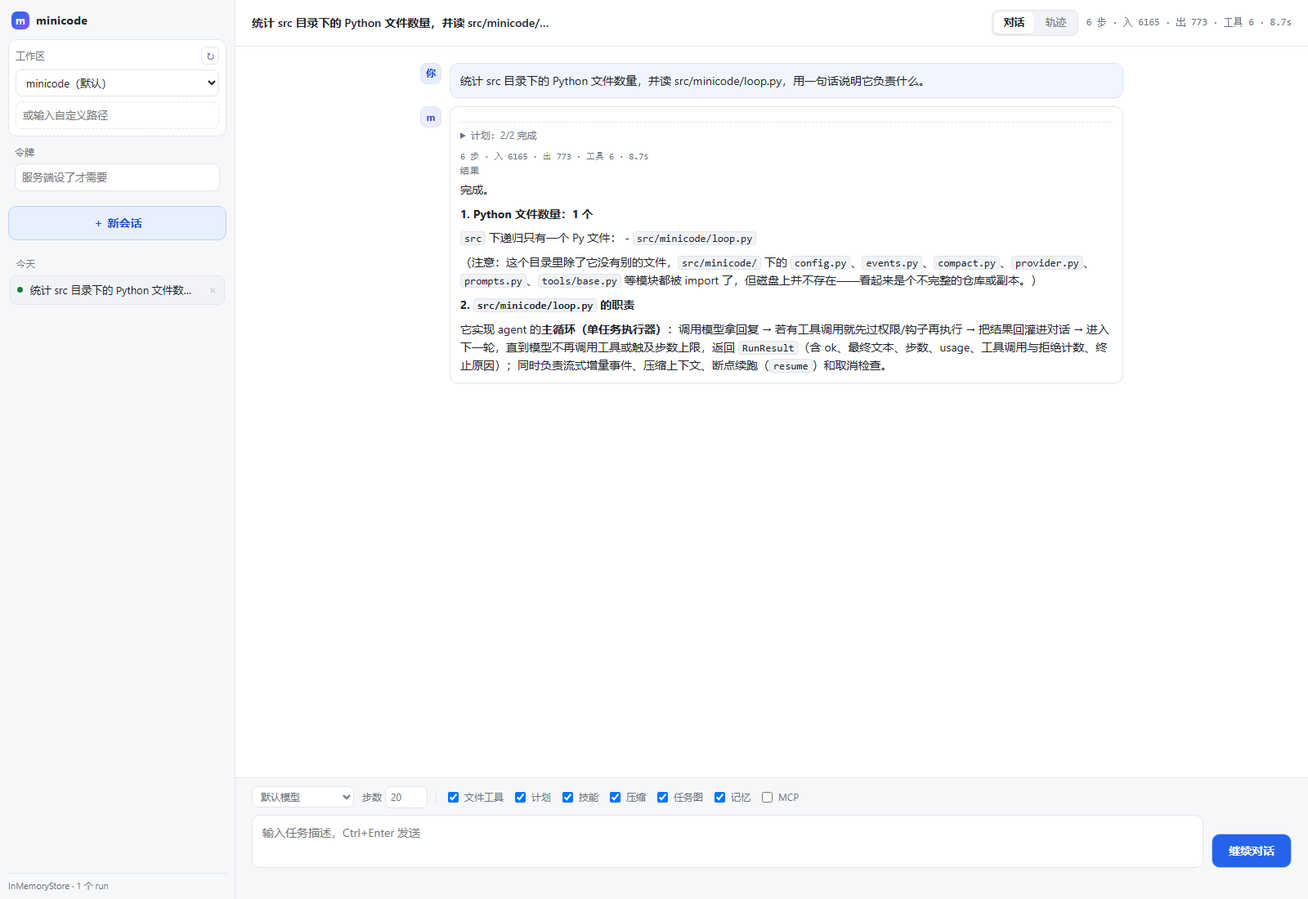
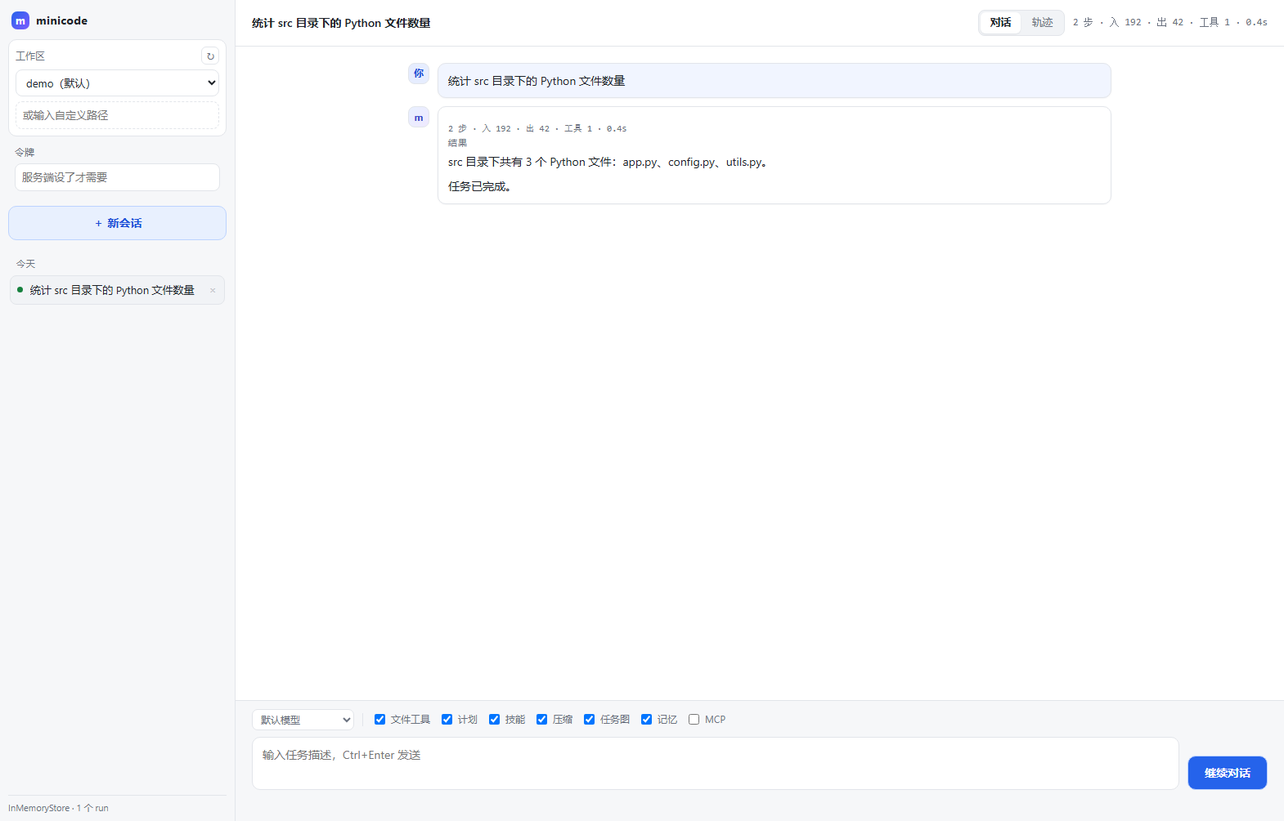
前端固定使用默认 20 步，移除步数输入框

diff --git a/src/minicode/service/web/assets/index-Fbmw1rHl.js b/src/minicode/service/web/assets/index-Fbmw1rHl.js
@@ -1,0 +1,7 @@
+(function(){let e=document.createElement(`link`).relList;if(e&&e.supports&&e.supports(`modulepreload`))return;for(let e of document.querySelectorAll(`link[rel="modulepreload"]`))n(e);new MutationObserver(e=>{for(let t of e)if(t.type===`childList`)for(let e of t.addedNodes)e.tagName===`LINK`&&e.rel===`modulepreload`&&n(e)}).observe(document,{childList:!0,subtree:!0});function t(e){let t={};return e.integrity&&(t.integrity=e.integrity),e.referrerPolicy&&(t.referrerPolicy=e.referrerPolicy),t.credentials=e.crossOrigin===`use-credentials`?`include`:e.crossOrigin===`anonymous`?`omit`:`same-origin`,t}function n(e){if(e.ep)return;e.ep=!0;let n=t(e);fetch(e.href,n)}})();var e=``;function t(t){e=t.trim()}function n(){return e?{Authorization:`Bearer ${e}`}:{}}var r=class extends Error{status;constructor(e,t){super(t),this.status=e}};async function i(e,t){let i={...t?.headers,...n()},a=await fetch(e,{...t,headers:i});if(!a.ok){let e=``;try{let t=await a.json();e=typeof t.detail==`string`?t.detail:JSON.stringify(t.detail)}catch{e=await a.text().catch(()=>``)}throw new r(a.status,e||`HTTP ${a.status}`)}return await a.json()}function a(e){return{method:`POST`,headers:{"Content-Type":`application/json`},body:JSON.stringify(e)}}var o={health(){return i(`/healthz`)},workspaces(){return i(`/workspaces`)},conversations(e=60){return i(`/conversations?limit=${e}`)},deleteConversation(e){return i(`/conversations/${encodeURIComponent(e)}`,{method:`DELETE`})},memory(e){return i(`/memory${e?`?workspace=${encodeURIComponent(e)}`:``}`)},runs(){return i(`/runs`)},run(e){return i(`/runs/${encodeURIComponent(e)}`)},async runWithEvents(e){return await i(`/runs/${encodeURIComponent(e)}?events=true`)},createRun(e){let t={task:e.task,include_files:e.includeFiles??!1,plan:e.plan??!1,skills:e.skills??!1,compact:e.compact??!1,tasks:e.tasks??!1,memory:e.memory??!1,mcp:e.mcp??!1};return e.workspace&&(t.workspace=e.workspace),e.model&&(t.model=e.model),i(`/runs`,a(t))},followup(e,t){return i(`/runs/${encodeURIComponent(e)}/followup`,a({text:t}))},cancel(e){return i(`/runs/${encodeURIComponent(e)}/cancel`,a({}))},resume(e){return i(`/runs/${encodeURIComponent(e)}/resume`,a({}))},runTasks(e){return i(`/runs/${encodeURIComponent(e)}/tasks`)}},s=[`start`,`resume`,`model_call`,`thinking`,`tool_call`,`assistant_delta`,`denied`,`unknown_tool`,`hook_error`,`compact`,`finish`,`end`];function c(t,n,r,i){let a=e?`?token=${encodeURIComponent(e)}`:``,o=new EventSource(`/runs/${encodeURIComponent(t)}/events${a}`);for(let e of s)o.addEventListener(e,t=>{let i=t,a;try{a=JSON.parse(i.data)}catch{return}n(a),e===`end`&&(o.close(),r(e,a))});return o.addEventListener(`error`,()=>{o.readyState===EventSource.CLOSED&&i?.()}),()=>o.close()}function l(e){return typeof e==`object`&&e?e:{}}function u(e){return typeof e==`number`&&Number.isFinite(e)?e:0}function d(e){let t={steps:0,inputTokens:0,outputTokens:0,compactions:0,savedChars:0,elapsedMs:0,toolCalls:0,denied:0,failures:0},n=0,r=0;for(let i of e){let e=l(i.data);if(typeof i.ts==`number`&&(n||=i.ts,r=i.ts),i.kind===`model_call`){t.steps+=1;let n=l(e.usage);t.inputTokens+=u(n.input_tokens),t.outputTokens+=u(n.output_tokens)}else i.kind===`tool_call`?(t.toolCalls+=1,e.failed===!0&&(t.failures+=1)):i.kind===`denied`?t.denied+=1:i.kind===`compact`&&(t.compactions+=1,t.savedChars+=u(e.saved_chars))}return n&&r>=n&&(t.elapsedMs=Math.round((r-n)*1e3)),t}function ee(e){let t=null;for(let n of e){if(n.kind!==`tool_call`)continue;let e=l(n.data);if(e.tool!==`todo_write`)continue;let r=l(e.args).todos;Array.isArray(r)&&(t=r.map(e=>{let t=l(e),n=t.status===`in_progress`||t.status===`completed`?t.status:`pending`,r=Array.isArray(t.blockedBy)?t.blockedBy.map(e=>u(e)).filter(e=>e>0):[];return{content:String(t.content??``),status:n,blockedBy:r}}))}return t}function te(e){if(!e)return`0s`;let t=e/1e3;if(t<60)return`${t<10?t.toFixed(1):Math.round(t)}s`;let n=Math.floor(t/60);return`${n}m${Math.round(t-n*60).toString().padStart(2,`0`)}s`}function f(e){let t=[`${e.steps} 步`,`入 ${e.inputTokens}`,`出 ${e.outputTokens}`,`工具 ${e.toolCalls}`,te(e.elapsedMs)];return e.denied&&t.push(`被拒 ${e.denied}`),e.failures&&t.push(`失败 ${e.failures}`),e.compactions&&t.push(`压缩 ${e.compactions} 次省 ${e.savedChars} 字符`),t.join(` · `)}function p(e){return typeof e==`object`&&e?e:{}}function ne(e){if(!e.startsWith(`mcp__`))return null;let t=e.slice(5),n=t.indexOf(`__`);return n<=0||n+2>=t.length?null:{server:t.slice(0,n),tool:t.slice(n+2)}}function re(e){let t=p(e.data),n=String(t.tool??`?`),r=ne(n),i=r?`${r.server}/${r.tool}`:n,a=p(t.args),o=``;return typeof a.command==`string`?o=a.command:typeof a.path==`string`?o=a.path:typeof a.taskId==`string`?o=a.taskId:typeof a.subject==`string`?o=a.subject:typeof a.prompt==`string`?o=a.prompt:typeof a.text==`string`?o=a.text:Array.isArray(a.todos)&&(o=`${a.todos.length} 条清单`),o=o.replace(/\s+/g,` `).trim(),o.length>80&&(o=o.slice(0,80)+`…`),{tool:i,ok:t.failed!==!0,summary:o,exitCode:typeof t.exit_code==`number`?t.exit_code:void 0,output:typeof t.output==`string`?t.output:void 0,step:typeof t.step==`number`?t.step:0,source:r?`MCP`:void 0,mcpServer:r?.server,mcpTool:r?.tool}}function ie(e){let t=e.events??[],n=d(t),r=p(e.result),i=typeof r.final_text==`string`?r.final_text:``,a=[],o=[],s=0,c=null;for(let e of t)if(e.kind===`start`){let t=p(e.data);typeof t.max_steps==`number`&&(c=t.max_steps)}else if(e.kind===`tool_call`)a.push(re(e));else if(e.kind===`denied`)s+=1;else if(e.kind===`thinking`){let t=p(e.data),n=typeof t.text==`string`?t.text:``;n.trim()&&o.push({step:typeof t.step==`number`?t.step:0,text:n})}return{runId:e.id,stopReason:typeof r.stop_reason==`string`?r.stop_reason:``,task:e.task??``,status:e.status??`queued`,ok:r.ok===!0,answer:i,error:e.error??null,usage:n,plan:ee(t),tools:a,thoughts:o,denied:s,createdAt:typeof e.created_at==`number`?e.created_at:0,maxSteps:c}}function ae(e){if(!e.ok&&e.status===`done`)return`interrupted`;let t=e.maxSteps??0;return e.ok&&e.stopReason===`end_turn`&&t>0&&e.usage.steps>=t?`budget_boundary`:`ok`}function oe(e){return[...e].sort((e,t)=>(e.created_at??0)-(t.created_at??0)).map(ie)}function se(e){let t=new Date(e*1e3);return t.setHours(0,0,0,0),t.getTime()}function ce(e,t=Date.now()){let n=se(t/1e3),r=n-864e5,i=[{label:`今天`,items:[]},{label:`昨天`,items:[]},{label:`更早`,items:[]}];for(let t of e){let e=se(t.updated_at);e>=n?i[0].items.push(t):e>=r?i[1].items.push(t):i[2].items.push(t)}return i.filter(e=>e.items.length>0)}function le(e){return e===`running`||e===`queued`?`warn`:e===`error`?`error`:e===`done`?`ok`:`muted`}function ue(e,t=28){let n=(e||``).replace(/\s+/g,` `).trim();return n?n.length>t?n.slice(0,t)+`…`:n:`(空任务)`}function m(e){let t=Math.max(0,Math.floor(e/1e3)),n=Math.floor(t/3600),r=Math.floor(t%3600/60),i=t%60,a=String(r).padStart(2,`0`),o=String(i).padStart(2,`0`);return n>0?`${n}:${a}:${o}`:`${a}:${o}`}function de(e){return typeof e==`object`&&e?e:{}}function h(e,t=``){return typeof e==`string`?e:e==null?t:String(e)}function g(e){return typeof e==`number`?e:void 0}function _(e,t){let n=e.replace(/\s+/g,` `).trim();return n.length>t?n.slice(0,t)+`…`:n}function fe(e){let t=de(e.data);switch(e.kind){case`start`:{let e=Array.isArray(t.tools)?t.tools.map(e=>h(e)).join(`/`):``;return{label:`开始`,detail:`${h(t.model,`?`)} · 工具 ${e||`?`} · ${_(h(t.task),60)}`,tone:`info`}}case`resume`:return{label:`恢复`,detail:`从第 ${g(t.from_step)??`?`} 步恢复（上限 ${g(t.max_steps)??`?`}）`,tone:`info`};case`model_call`:{let e=de(t.usage),n=g(e.input_tokens)??0,r=g(e.output_tokens)??0,i=g(t.tool_calls)??0;return{label:`模型调用 #${g(t.step)??`?`}`,detail:`${h(t.stop_reason,`?`)} · 入 ${n} 出 ${r} · 工具调用 ${i} 个`,tone:`info`}}case`assistant_delta`:return{label:`模型输出`,detail:_(h(t.text),60),tone:`info`};case`thinking`:{let e=g(t.step)??0;return{label:e?`思考 #${e}`:`思考`,detail:_(h(t.text).replace(/\s+/g,` `),60),tone:`info`}}case`mcp_ready`:{let e=g(t.server_count)??0,n=g(t.tool_count)??0,r=Array.isArray(t.warnings)?t.warnings.length:0;return{label:`MCP`,detail:`${e} 个 server · ${n} 个工具`+(r?` · ${r} 条警告`:``),tone:r?`warn`:`info`}}case`tool_call`:{let e=de(t.args),n=h(e.command)||h(e.path)||``,r=g(t.exit_code),i=t.failed===!0;return{label:`工具 ${h(t.tool,`?`)}`,detail:`${_(n,80)}${r===void 0?``:` [exit=${r}]`}`,tone:i?`warn`:`ok`}}case`denied`:return{label:`已拒绝`,detail:`${h(t.reason,`?`)}：${_(h(t.detail),70)}`,tone:`warn`};case`unknown_tool`:return{label:`未知工具`,detail:h(t.tool,`?`),tone:`warn`};case`finish`:{let e=t.ok===!0;return{label:`完成`,detail:e?`完成（${h(t.reason,`?`)}）`:`未完成（${h(t.reason,`?`)}）`,tone:e?`ok`:`error`}}case`end`:{let e=h(t.status,`?`);return{label:`结束`,detail:e===`error`?`失败：${_(h(t.error),80)}`:e,tone:e===`error`?`error`:`ok`}}default:return{label:e.kind,detail:_(JSON.stringify(t),80),tone:`info`}}}function pe(e){let t=e.trim();return t&&(/^(https?:|mailto:)/i.test(t)||t.startsWith(`/`)||t.startsWith(`#`)||t.startsWith(`./`)||t.startsWith(`../`))?t:null}var me=/`([^`]+)`/,he=/\[([^\]]*)\]\(([^)\s]+)\)/,ge=/\*\*(.+?)\*\*/,_e=/(^|[^*_])(\*([^*]+)\*|_([^_]+)_)/;function v(e){let t=[],n=e;for(;n;){let e=[];for(let[t,r]of[[`code`,me],[`link`,he],[`strong`,ge],[`em`,_e]]){let i=r.exec(n);i&&e.push({index:i.index,kind:t,match:i})}if(e.length===0){t.push({type:`text`,text:n});break}e.sort((e,t)=>e.index-t.index);let{index:r,kind:i,match:a}=e[0];if(r>0&&t.push({type:`text`,text:n.slice(0,r)}),i===`code`)t.push({type:`code`,text:a[1]}),n=n.slice(r+a[0].length);else if(i===`link`){let e=pe(a[2]);e?t.push({type:`link`,href:e,children:v(a[1])}):t.push({type:`text`,text:a[0]}),n=n.slice(r+a[0].length)}else if(i===`strong`)t.push({type:`strong`,children:v(a[1])}),n=n.slice(r+a[0].length);else{let e=a[1]??``,i=a[3]??a[4]??``;e&&t.push({type:`text`,text:e}),t.push({type:`em`,children:v(i)}),n=n.slice(r+a[0].length)}}return ve(t)}function ve(e){let t=[];for(let n of e){let e=t[t.length-1];n.type===`text`&&e&&e.type===`text`?t[t.length-1]={type:`text`,text:e.text+n.text}:t.push(n)}return t}var ye=/^(#{1,6})\s+(.*)$/,be=/^\s*([-*_])(?:\s*\1){2,}\s*$/,xe=/^\s*[-*+]\s+(.*)$/,y=/^\s*\d+[.)]\s+(.*)$/,b=/^>\s?(.*)$/,Se=/^\s*\|?\s*:?-{2,}:?\s*(\|\s*:?-{2,}:?\s*)+\|?\s*$/;function Ce(e){let t=e.trim();return t.startsWith(`|`)&&(t=t.slice(1)),t.endsWith(`|`)&&(t=t.slice(0,-1)),t.split(`|`).map(e=>e.trim())}function we(e){let t=(e??``).replace(/\r\n?/g,`
+`).split(`
+`),n=[],r=0;for(;r<t.length;){let e=t[r];if(!e.trim()){r+=1;continue}let i=/^\s*```(\w*)\s*$/.exec(e);if(i){let e=i[1]??``,a=[];for(r+=1;r<t.length&&!/^\s*```\s*$/.test(t[r]);)a.push(t[r]),r+=1;r+=1,n.push({type:`code`,lang:e,text:a.join(`
+`)});continue}let a=ye.exec(e);if(a){n.push({type:`heading`,level:a[1].length,children:v(a[2])}),r+=1;continue}if(be.test(e)){n.push({type:`hr`}),r+=1;continue}if(b.test(e)){let e=[];for(;r<t.length&&b.test(t[r]);)e.push(b.exec(t[r])[1]),r+=1;n.push({type:`blockquote`,blocks:we(e.join(`
+`))});continue}if(e.includes(`|`)&&r+1<t.length&&Se.test(t[r+1])){let i=Ce(e).map(v);r+=2;let a=[];for(;r<t.length&&t[r].includes(`|`)&&t[r].trim();)a.push(Ce(t[r]).map(v)),r+=1;n.push({type:`table`,header:i,rows:a});continue}if(xe.test(e)||y.test(e)){let i=y.test(e),a=i?y:xe,o=[];for(;r<t.length&&a.test(t[r]);){o.push(v(a.exec(t[r])[1])),r+=1;let e=[];for(;r<t.length&&/^\s+\S/.test(t[r])&&!xe.test(t[r])&&!y.test(t[r]);)e.push(t[r].trim()),r+=1;e.length&&o[o.length-1].push({type:`text`,text:` `+e.join(` `)})}n.push({type:`list`,ordered:i,items:o});continue}let o=[];for(;r<t.length&&t[r].trim();){let e=t[r];if(o.length>0&&(ye.test(e)||be.test(e)||/^\s*```/.test(e)||b.test(e)))break;o.push(e),r+=1}n.push({type:`paragraph`,children:v(o.join(` `).trim())})}return n}function x(e,t){let n=t.createDocumentFragment();for(let r of e)if(r.type===`text`)n.append(t.createTextNode(r.text));else if(r.type===`code`)n.append(t.createElement(`code`)),n.lastChild.textContent=r.text,n.lastChild.className=`md-code`;else if(r.type===`strong`){let e=t.createElement(`strong`);e.append(x(r.children,t)),n.append(e)}else if(r.type===`em`){let e=t.createElement(`em`);e.append(x(r.children,t)),n.append(e)}else{let e=t.createElement(`a`);e.setAttribute(`href`,r.href),e.setAttribute(`rel`,`noreferrer noopener`),e.setAttribute(`target`,`_blank`),e.append(x(r.children,t)),n.append(e)}return n}function Te(e,t=document){return Ee(we(e),t)}function Ee(e,t=document){let n=t.createDocumentFragment();for(let r of e)if(r.type===`heading`){let e=t.createElement(`h${Math.min(6,Math.max(1,r.level))}`);e.append(x(r.children,t)),n.append(e)}else if(r.type===`paragraph`){let e=t.createElement(`p`);e.append(x(r.children,t)),n.append(e)}else if(r.type===`code`){let e=t.createElement(`pre`),i=t.createElement(`code`);r.lang&&(i.className=`lang-${r.lang}`),i.textContent=r.text,e.append(i),n.append(e)}else if(r.type===`list`){let e=t.createElement(r.ordered?`ol`:`ul`);for(let n of r.items){let r=t.createElement(`li`);r.append(x(n,t)),e.append(r)}n.append(e)}else if(r.type===`blockquote`){let e=t.createElement(`blockquote`);e.append(Ee(r.blocks,t)),n.append(e)}else if(r.type===`hr`)n.append(t.createElement(`hr`));else{let e=t.createElement(`table`),i=t.createElement(`thead`),a=t.createElement(`tr`);for(let e of r.header){let n=t.createElement(`th`);n.append(x(e,t)),a.append(n)}i.append(a),e.append(i);let o=t.createElement(`tbody`);for(let e of r.rows){let n=t.createElement(`tr`);for(let r of e){let e=t.createElement(`td`);e.append(x(r,t)),n.append(e)}o.append(n)}e.append(o),n.append(e)}return n}function S(e,t={},...n){let r=document.createElement(e);for(let[e,n]of Object.entries(t))n!=null&&(e===`class`?r.className=String(n):e===`dataset`?Object.assign(r.dataset,n):e===`hidden`?r.hidden=!!n:r[e]=n);for(let e of n)e!=null&&e!==!1&&r.append(typeof e==`string`?document.createTextNode(e):e);return r}function C(e){let t=document.getElementById(e);if(!t)throw Error(`找不到元素 #${e}`);return t}var w=`minicode:conversation`,T=`minicode:workspace`,De=`minicode:view`;function E(e,t){try{window.localStorage.setItem(e,t)}catch{}}function D(e){try{return window.localStorage.getItem(e)??``}catch{return``}}function Oe(e){try{window.localStorage.removeItem(e)}catch{}}var O={workspace:C(`workspace`),custom:C(`workspaceCustom`),refresh:C(`refreshWs`),newChat:C(`newChat`),conversations:C(`conversations`),token:C(`token`),store:C(`storeInfo`)},k={title:C(`title`),status:C(`runStatus`),usage:C(`usage`),chat:C(`chat`),empty:C(`empty`),task:C(`task`),submit:C(`submit`),resume:C(`resume`),cancel:C(`cancel`),statusLine:C(`status`),model:C(`model`),optFiles:C(`optFiles`),optPlan:C(`optPlan`),optSkills:C(`optSkills`),optCompact:C(`optCompact`),optTasks:C(`optTasks`),optMemory:C(`optMemory`),optMcp:C(`optMcp`),viewChat:C(`viewChat`),viewTrajectory:C(`viewTrajectory`)},ke=new Map;function A(e,t,n,r=!1){let i=S(`details`,{class:e}),a=!1,o=()=>{if(a||!i.open)return;a=!0;let e=n();e&&i.append(e)};return i.append(S(`summary`,{},t)),i.addEventListener(`toggle`,o),i.open=r,r&&o(),i}function Ae(e,t,n,r,i=!1){let a=S(`details`,{class:t}),o=ke.has(e)?ke.get(e):i;a.open=o,a.addEventListener(`toggle`,()=>{a.open!==o&&ke.set(e,a.open)}),a.append(S(`summary`,{},n));let s=r();return s&&a.append(s),a}var j=[],M=[],N=[],P=``,F=null,I=[],L=null,je=!1,R=`chat`,z=``;function Me(){return M.find(e=>e.root_id===P)??null}function Ne(){return O.custom.value.trim()||O.workspace.value}function B(e,t=`muted`){k.statusLine.textContent=e,k.statusLine.className=t===`muted`?`muted`:t}function Pe(){return N.some(e=>e.status===`running`||e.status===`queued`)}function Fe(){O.workspace.replaceChildren();for(let e of j){let t=S(`option`,{value:e.path});t.textContent=`${e.name}${e.is_default?`（默认）`:``}${e.exists?``:`（不存在）`}`,t.title=e.path,O.workspace.append(t)}let e=D(T),t=j.find(t=>t.path===e)??j.find(e=>e.is_default)??j[0];t&&(O.workspace.value=t.path)}function Ie(){if(O.conversations.replaceChildren(),M.length===0)O.conversations.append(S(`p`,{class:`muted hint`},`暂无会话`));else for(let e of ce(M)){O.conversations.append(S(`div`,{class:`group-label`},e.label));for(let t of e.items){let e=S(`div`,{class:`conv-row`}),n=S(`button`,{class:`conv`,dataset:{root:t.root_id}});t.root_id===P&&(n.classList.add(`active`),n.setAttribute(`aria-current`,`true`));let r=le(t.status);n.append(S(`span`,{class:`dot tone-${r}`})),n.append(S(`span`,{class:`conv-title`},ue(t.title,30))),t.turns&&t.turns>1&&n.append(S(`span`,{class:`conv-turns`},`${t.turns} 轮`)),n.addEventListener(`click`,()=>void yt(t.root_id)),e.append(n);let i=S(`button`,{class:`conv-del`,title:`删除会话`},`×`);i.setAttribute(`aria-label`,`删除会话`),i.addEventListener(`click`,e=>{e.stopPropagation(),Tt(t)}),e.append(i),O.conversations.append(e)}}}function Le(e,t){if(!e.plan||e.plan.length===0)return null;let n=e.plan.filter(e=>e.status===`completed`).length;return Ae(`${e.runId}:plan`,`plan`,`计划：${n}/${e.plan.length} 完成`,()=>{let t=S(`ol`,{class:`plan-list`});for(let n of e.plan??[]){let e=S(`li`,{class:`plan-item status-${n.status}`});e.textContent=n.content,n.blockedBy?.length&&e.append(S(`span`,{class:`blocked-by`},`等待 ${n.blockedBy.join(`,`)}`)),t.append(e)}return t},t)}function Re(e,t=!1){let n=S(`div`,{class:`turn${t?` live`:``}`}),r=S(`div`,{class:`msg user`});r.append(S(`div`,{class:`avatar`},`你`)),r.append(S(`div`,{class:`bubble`},e.task)),n.append(r);let i=S(`div`,{class:`msg assistant`});i.append(S(`div`,{class:`avatar`},`m`));let a=S(`div`,{class:`bubble`}),o=Le(e,!1);o&&a.append(o),e.usage.steps>0&&a.append(S(`div`,{class:`turn-usage muted`},f(e.usage)));let s=ae(e);if(e.error)a.append(S(`div`,{class:`answer error`},`出错：${e.error}`));else if(e.status===`error`)a.append(S(`div`,{class:`answer error`},`执行失败（切换到「轨迹」查看原始信息）`));else{if(s===`interrupted`){let t=e.stopReason===`max_steps`?`步数用尽，任务中断`:e.stopReason===`cancelled`?`已取消`:`任务未完成`;a.append(S(`div`,{class:`answer-warning`},`${t}（这不是最终结果）`))}else s===`budget_boundary`&&a.append(S(`div`,{class:`answer-hint`},`本轮到第 ${e.usage.steps} 步结束（等于步数上限 ${e.maxSteps}）。如果任务没做完，点「继续执行」。`));if(e.answer){a.append(S(`div`,{class:`answer-label`},s===`interrupted`?`中断前模型的最后输出`:`结果`));let t=S(`div`,{class:`answer markdown`});t.append(Te(e.answer)),a.append(t)}else s===`interrupted`&&a.append(S(`div`,{class:`answer muted`},`没有产出最终结果`))}return i.append(a),n.append(i),n}function V(e){try{return JSON.stringify(e,null,2)??String(e)}catch{return String(e)}}function ze(e,t){let n=e.data??{};return typeof n[t]==`string`?n[t]:``}function Be(e,t){let n=e.data??{};return typeof n[t]==`number`?n[t]:void 0}function Ve(e){let t=Be(e,`step`);return t===void 0?null:t}function H(e,t=``){return S(`pre`,{class:`traj-pre ${t}`.trim()},e)}function He(e){return A(`traj-event-json`,`原始事件 JSON`,()=>H(V(e),`json`),!1)}function Ue(e){switch(e.kind){case`start`:return`开始`;case`resume`:return`从检查点恢复`;case`mcp_ready`:return`MCP 连接`;case`thinking`:return`thinking（模型推理原文）`;case`model_call`:return`模型调用`;case`tool_call`:return`工具调用`;case`denied`:return`权限拒绝`;case`hook_error`:return`钩子异常`;case`compact`:return`上下文压缩`;case`finish`:return`结束`;case`unknown_tool`:return`未知工具`;default:return fe(e).label}}function We(e){let t=e.data??{},n=Ve(e),r=S(`div`,{class:`traj-entry kind-${e.kind}`}),i=S(`div`,{class:`traj-entry-head`});switch(i.append(S(`span`,{class:`traj-kind`},Ue(e))),n!==null&&i.append(S(`span`,{class:`traj-step-tag`},`第 ${n} 步`)),r.append(i),e.kind){case`start`:r.append(S(`div`,{class:`traj-label`},`用户任务`)),r.append(H(String(t.task??``),`text`)),r.append(S(`div`,{class:`traj-line`},`model=${String(t.model??`?`)} · tools=${Array.isArray(t.tools)?t.tools.join(`, `):``} · hooks=${Array.isArray(t.hooks)?t.hooks.join(`, `):``}`)),typeof t.system==`string`&&t.system&&r.append(A(`traj-system`,`系统提示（完整，点击展开）`,()=>H(t.system,`text`),!1));break;case`resume`:r.append(S(`div`,{class:`traj-line`},`从第 ${t.from_step??`?`} 步恢复 · 再给 ${t.max_steps??`?`} 步 · 目标到第 ${t.until_step??`?`} 步`));break;case`mcp_ready`:{let e=Array.isArray(t.servers)?t.servers.join(`, `):``,n=Array.isArray(t.warnings)?t.warnings.length:0;r.append(S(`div`,{class:`traj-line`},`${t.server_count??0} 个 server · ${t.tool_count??0} 个工具${e?` · ${e}`:``}${n?` · ${n} 条警告`:``}`));break}case`thinking`:r.append(H(`${ze(e,`text`)}\n`,`thinking-text`));break;case`model_call`:{let e=t.usage??{};r.append(S(`div`,{class:`traj-line`},`stop_reason=${String(t.stop_reason??`?`)} · 入 ${e.input_tokens??0} / 出 ${e.output_tokens??0} · 工具调用 ${t.tool_calls??0} 个 · 文本 ${t.text_len??0} 字`));break}case`tool_call`:{let e=S(`div`,{class:`traj-tool-head`});e.append(S(`span`,{class:`traj-tool-name`},String(t.tool??`?`))),typeof t.exit_code==`number`&&e.append(S(`span`,{class:`traj-exit ${t.failed===!0?`bad`:`ok`}`},t.failed===!0?`exit ${t.exit_code}`:`exit 0`)),r.append(e),r.append(A(`traj-tool-section`,`参数（完整）`,()=>H(V(t.args??{}),`json`),!1)),r.append(A(`traj-tool-section`,`输出（完整，不截断）`,()=>H(typeof t.output==`string`?t.output:`(无输出)`,`output`),!1)),t.meta&&Object.keys(t.meta).length>0&&r.append(A(`traj-tool-section`,`meta`,()=>H(V(t.meta),`json`),!1));break}case`denied`:r.append(S(`div`,{class:`traj-line`},`${String(t.reason??`?`)}${t.detail?` · ${String(t.detail)}`:``} · by ${String(t.by??``)}`)),t.args!==void 0&&r.append(H(V(t.args),`json`));break;case`hook_error`:r.append(H(V(t),`json`));break;case`compact`:r.append(S(`div`,{class:`traj-line`},`${t.chars_before??`?`} → ${t.chars_after??`?`} 字符（省 ${Math.round(Number(t.saved_ratio??0)*100)}%）；落盘 ${t.persisted??0}、截断 ${t.trimmed??0}、删整对 ${t.snipped_messages??0}`));break;case`finish`:r.append(S(`div`,{class:`traj-line`},`ok=${String(t.ok??`?`)} · reason=${String(t.reason??`?`)}`));break;case`unknown_tool`:r.append(S(`div`,{class:`traj-line`},String(t.tool??`?`)));break;default:{let n=fe(e);r.append(S(`div`,{class:`traj-line`},n.detail)),r.append(H(V(t),`json`));break}}return r.append(He(e)),r}var U=null,W=!0,G=[],K=!1;function Ge(e){if(!e.pendingDelta)return;let t=e.pendingDelta;e.pendingDelta=``;let n=S(`div`,{class:`traj-entry kind-assistant`}),r=S(`div`,{class:`traj-entry-head`});r.append(S(`span`,{class:`traj-kind`},`助手输出`)),e.pendingStep!==null&&r.append(S(`span`,{class:`traj-step-tag`},`第 ${e.pendingStep} 步`)),n.append(r),n.append(H(`${t}\n`,`answer-text`)),e.log.append(n)}function Ke(e,t){let n=Ve(t);n!==e.lastStep&&(Ge(e),e.lastStep=n,n!==null&&e.log.append(S(`div`,{class:`traj-step-divider`},`第 ${n} 步`))),t.kind===`assistant_delta`?(e.pendingDelta+=ze(t,`text`),e.pendingStep=n):(Ge(e),e.log.append(We(t)))}function qe(e,t){let n=e.events??[],r=d(n),i=e.result??{},a=e.status??`queued`,o=a===`done`&&i.ok===!1?`未完成`:a,s=S(`section`,{class:`traj-run`}),c=S(`div`,{class:`traj-run-head`});c.append(S(`span`,{class:`traj-run-index`},`第 ${t+1} 轮`)),c.append(S(`span`,{class:`traj-run-task`},e.task)),c.append(S(`span`,{class:`traj-run-status tone-${le(a)}`},o)),c.append(S(`span`,{class:`traj-run-meta muted`},f(r))),s.append(c);let l=S(`div`,{class:`traj-log`});s.append(l);let u={runId:e.id,log:l,lastStep:void 0,pendingDelta:``,pendingStep:null};for(let e of n)Ke(u,e);if(Ge(u),e.error)s.append(S(`div`,{class:`traj-result error`},`错误：${e.error}`));else if(typeof i.final_text==`string`&&i.final_text){let e=S(`div`,{class:`traj-result`});e.append(S(`div`,{class:`traj-label`},`最终结果`));let t=S(`div`,{class:`answer markdown`});t.append(Te(i.final_text)),e.append(t),s.append(e)}return{section:s,state:u}}function Je(){k.chat.className=`chat trajectory`,G=[],K=!1;let e=k.chat.scrollTop;k.chat.replaceChildren(),U=null,N.length===0?k.chat.append(S(`div`,{class:`empty`},S(`p`,{class:`empty-title`},`还没有运行记录`),S(`p`,{class:`muted`},`在下方输入任务，或从左侧选择历史会话。`))):(N.forEach((e,t)=>{let{section:n,state:r}=qe(e,t);k.chat.append(n),F?.id===e.id&&(U=r)}),k.chat.scrollTop=W?k.chat.scrollHeight:e)}var Ye=null;function Xe(e){let t=Re(e,!0),n=t.querySelector(`.msg.assistant .bubble`),r=S(`div`,{class:`plan-host`}),i=S(`div`,{class:`turn-usage muted`}),a=S(`div`,{class:`answer streaming markdown`});return n.replaceChildren(r,i,a),{el:t,view:{runId:e.runId,planHost:r,usageEl:i,answerEl:a,deltaText:``,answerStep:null}}}function Ze(e){let t=Be(e,`step`),n=t===void 0?``:`第 ${t} 步 · `;switch(e.kind){case`assistant_delta`:return`${n}模型输出中…`;case`thinking`:return`${n}模型在思考…`;case`tool_call`:{let t=re(e);return`${n}正在执行 ${t.tool}${t.summary?`：${t.summary}`:``}`}case`denied`:return`${n}工具调用被权限拒绝`;case`compact`:return`${n}正在压缩上下文…`;case`model_call`:return`${n}模型已返回，继续下一步…`;default:return``}}var q=null,J=null,Y=null,X=0,Z=null;function Qe(e){e&&(z=e,k.status.hidden=!1,k.status.textContent=Y?`${e} · ${m(Date.now()-X)}`:e)}function $e(e){e&&(z=e,J&&(J.textContent=`运行中 · ${e}`),k.status.hidden=!1,k.status.textContent=`${e} · ${m(Date.now()-X)}`)}function et(){if(!F)return;let e=m(Date.now()-X);Y&&(Y.textContent=e),z&&(k.status.textContent=`${z} · ${e}`)}function tt(){q||(q=S(`div`,{class:`live-footer`}),J=S(`span`,{class:`live-footer-text`},z?`运行中 · ${z}`:`运行中 · 等待模型回复…`),Y=S(`span`,{class:`live-timer`},`00:00`),q.append(J,Y))}function nt(){Z===null&&(et(),Z=window.setInterval(et,1e3))}function rt(){Z!==null&&(window.clearInterval(Z),Z=null),X=0,q=null,J=null,Y=null}function it(e){let t=Te(e.deltaText);t.append(S(`span`,{class:`cursor`})),e.answerEl.replaceChildren(t)}function at(e,t){if(!t||t.length===0)return;let n=t.filter(e=>e.status===`completed`).length,r=e.planHost.querySelector(`details.plan`),i;r?i=r.querySelector(`ol.plan-list`):(r=S(`details`,{class:`plan`}),r.open=!0,i=S(`ol`,{class:`plan-list`}),r.append(S(`summary`),i),e.planHost.append(r)),r.querySelector(`summary`).textContent=`计划：${n}/${t.length} 完成`,i.replaceChildren();for(let e of t){let t=S(`li`,{class:`plan-item status-${e.status}`});t.textContent=e.content,i.append(t)}}function ot(e){let t=Ye;if(!t)return;if(e.kind===`assistant_delta`){let n=Be(e,`step`)??null;t.deltaText&&n!==t.answerStep&&(t.deltaText+=`
+
+`),t.answerStep=n,t.deltaText+=ze(e,`text`),it(t)}else e.kind===`tool_call`&&at(t,ee(I));let n=Ze(e);n&&$e(n),t.usageEl.textContent=f(d(I)),ct(),ht()}function st(e,t){let n=Ye;if(n){for(let t of e)ot(t);t&&at(n,t)}}function ct(){let e={steps:0,inputTokens:0,outputTokens:0,toolCalls:0,denied:0,failures:0,compactions:0,savedChars:0,elapsedMs:0},t={...e};for(let n of N){let r=d(n.events??[]);for(let n of Object.keys(e))t[n]+=r[n]}k.usage.textContent=t.steps?f(t):``}function lt(){k.viewChat.classList.toggle(`active`,R===`chat`),k.viewTrajectory.classList.toggle(`active`,R===`trajectory`),k.viewChat.setAttribute(`aria-selected`,String(R===`chat`)),k.viewTrajectory.setAttribute(`aria-selected`,String(R===`trajectory`))}function ut(e){R=e,e===`trajectory`&&(W=!0),E(De,e),Q()}function dt(){let e=Me();k.title.textContent=e?ue(e.title,40):`新会话`;let t=Pe();if(k.submit.disabled=t,k.submit.textContent=t?`执行中…`:N.length>0?`继续对话`:`发送`,k.resume.hidden=!pt(),k.cancel.hidden=!t,k.status.hidden=!t,t){let e=X?` · ${m(Date.now()-X)}`:``;k.status.textContent=z?`${z}${e}`:`执行中…`}else z=``}function ft(){k.chat.className=`chat`;let e=oe(N);if(k.chat.replaceChildren(),Ye=null,!(e.length>0||F!==null))k.empty.hidden=!1,k.chat.append(k.empty);else{k.empty.hidden=!0;for(let t of e)if(F?.id===t.runId){let{el:e,view:n}=Xe(t);Ye=n,st(I,t.plan),k.chat.append(e)}else k.chat.append(Re(t));F?(X||=typeof F.created_at==`number`?F.created_at*1e3:Date.now(),tt(),q&&k.chat.append(q),nt()):rt(),mt()}}function pt(){let e=N[N.length-1];return e?e.status===`error`||e.status===`done`&&e.result?.ok===!1:!1}function Q(){je||(je=!0,window.requestAnimationFrame(()=>{je=!1,lt(),dt(),ct(),Ie(),R===`chat`?ft():Je()}))}function mt(){k.chat.scrollTop=k.chat.scrollHeight}function ht(){let e=k.chat;e.scrollHeight-e.scrollTop-e.clientHeight<120&&(e.scrollTop=e.scrollHeight)}async function gt(){try{j=(await o.workspaces()).workspaces,Fe()}catch{O.workspace.replaceChildren(S(`option`,{},`（工作区列表加载失败）`))}}async function $(){try{M=(await o.conversations()).conversations,Ie()}catch{O.conversations.replaceChildren(S(`p`,{class:`muted hint`},`会话列表加载失败`))}}var _t=0;function vt(e){let t=e?`#/c/${e}`:`#/`;window.location.hash!==t&&window.history.replaceState(null,``,t)}async function yt(e,t={}){let n=++_t;P=e,W=!0,vt(e),E(w,e),L?.(),L=null,F=null,I=[];let r=M.find(t=>t.root_id===e);if(!r){N=[],Q();return}t.silent||B(`正在加载会话…`);let i=await Promise.all(r.run_ids.map(e=>o.runWithEvents(e).catch(()=>null)));if(n!==_t)return;N=i.filter(e=>e!==null),Q();let a=N[N.length-1];a&&(a.status===`running`||a.status===`queued`)?bt(a):B(``),Ie()}function bt(e){L?.(),F=e,I=[],rt(),X=typeof e.created_at==`number`?e.created_at*1e3:Date.now();let t=N.findIndex(t=>t.id===e.id);t>=0?N[t]={...e,events:I}:N=[...N,{...e,events:I}],L=c(e.id,t=>{I=[...I,t];let n=N.find(t=>t.id===e.id);n&&(n.events=I),R===`chat`?ot(t):U&&U.runId===e.id?(G.push(t),K||(K=!0,window.requestAnimationFrame(()=>{K=!1;let e=G;if(G=[],U){for(let t of e){Ke(U,t);let e=Ze(t);e&&Qe(e)}W&&(k.chat.scrollTop=k.chat.scrollHeight)}}))):Q()},(t,n)=>{let r=n.data??{};F=null,rt(),G=[],K=!1;let i=N.find(t=>t.id===e.id);i&&(i.status=String(r.status??`done`),i.result=r.result??null,i.error=typeof r.error==`string`?r.error:null,i.events=I),B(i?.status===`error`?`执行失败`:`已完成`,i?.status===`error`?`error`:`ok`),Q(),$(),gt()},()=>B(`事件流连接中断`,`error`))}function xt(){L?.(),L=null,P=``,W=!0,N=[],F=null,I=[],Oe(w),vt(``),k.task.value=``,B(``),Q(),k.task.focus()}var St=!1;async function Ct(){if(St||Pe()){B(`上一轮仍在执行，请稍候`,`error`);return}let e=k.task.value.trim();if(!e){B(`请输入任务内容`,`error`);return}let t=Ne();t&&E(T,t);let n=N[N.length-1],r=n&&wt(n);St=!0,k.submit.disabled=!0,B(r?`正在继续上一轮…`:`提交中…`);try{let i;r&&n?i=(await o.followup(n.id,e)).id:(i=(await o.createRun({task:e,workspace:t||void 0,model:k.model.value||void 0,includeFiles:k.optFiles.checked,plan:k.optPlan.checked,skills:k.optSkills.checked,compact:k.optCompact.checked,tasks:k.optTasks.checked,memory:k.optMemory.checked,mcp:k.optMcp.checked})).id,P||=i,E(w,P)),k.task.value=``;let a={id:i,task:e,status:`running`,result:null,created_at:Date.now()/1e3,events:[],workspace:t||void 0,memory:r?n?.memory:k.optMemory.checked};r?N=[...N,a]:(N=[a],P=i),R!==`chat`&&(R=`chat`,E(De,`chat`)),bt(a),Q(),$()}catch(e){B(`提交失败：${e instanceof Error?e.message:String(e)}`,`error`)}finally{St=!1,k.submit.disabled=!1}}function wt(e){return e.status===`done`||e.status===`error`}async function Tt(e){let t=ue(e.title,24),n=e.turns&&e.turns>1?`（共 ${e.turns} 轮）`:``;if(window.confirm(`确定删除会话「${t}」${n}？删除后不可恢复。`)){try{await o.deleteConversation(e.root_id)}catch(e){B(`删除失败：${e instanceof Error?e.message:String(e)}`,`error`);return}B(`已删除会话`),P===e.root_id&&(L?.(),L=null,P=``,N=[],F=null,I=[],vt(``),Q()),await $()}}async function Et(){let e=[...N].reverse().find(e=>e.status===`running`||e.status===`queued`);if(!e)B(`当前没有执行中的任务`,`error`);else{k.cancel.disabled=!0,B(`正在停止…（等待当前步骤结束）`);try{await o.cancel(e.id)}catch(e){B(`取消失败：${e instanceof Error?e.message:String(e)}`,`error`)}finally{k.cancel.disabled=!1}}}async function Dt(){let e=N[N.length-1];if(e){B(`正在从检查点恢复…`);try{await o.resume(e.id);let t=await o.run(e.id);N=N.map(n=>n.id===e.id?{...t,events:n.events}:n),bt(N[N.length-1]),Q()}catch(e){B(`继续失败：${e instanceof Error?e.message:String(e)}`,`error`)}}}var Ot=`minicode:token`;function kt(e){t(e),E(Ot,e)}async function At(){let e=D(Ot);e&&(O.token.value=e,t(e));let n=new URLSearchParams(window.location.search).get(`view`),r=D(De);R=n===`trajectory`||n===`raw`?`trajectory`:n===`chat`?`chat`:r===`trajectory`?`trajectory`:`chat`;try{let e=await o.health();O.store.textContent=`${e.store??`?`} · ${e.runs??0} 个 run`}catch{O.store.textContent=`后端连接失败`}await gt(),await $();let i=(window.location.hash.match(/^#\/c\/([0-9a-zA-Z_-]+)$/)??[])[1]??``,a=D(w),s=[i,M.find(e=>e.status===`running`||e.status===`queued`)?.root_id,a].find(e=>e&&M.some(t=>t.root_id===e));s?await yt(s,{silent:!0}):Q()}k.submit.addEventListener(`click`,()=>void Ct()),k.task.addEventListener(`keydown`,e=>{(e.ctrlKey||e.metaKey)&&e.key===`Enter`&&Ct()}),O.token.addEventListener(`change`,()=>{kt(O.token.value),B(O.token.value?`令牌已保存`:`已清除令牌`),$()}),k.cancel.addEventListener(`click`,()=>void Et()),k.resume.addEventListener(`click`,()=>void Dt()),O.newChat.addEventListener(`click`,()=>xt()),O.refresh.addEventListener(`click`,()=>{gt(),$(),B(`已刷新`)}),O.workspace.addEventListener(`change`,()=>{O.custom.value=``,E(T,O.workspace.value)}),O.custom.addEventListener(`input`,()=>{O.custom.value.trim()&&E(T,O.custom.value.trim())});for(let e of document.querySelectorAll(`.example`))e.addEventListener(`click`,()=>{k.task.value=e.dataset.task??``,k.task.focus()});k.viewChat.addEventListener(`click`,()=>ut(`chat`)),k.viewTrajectory.addEventListener(`click`,()=>ut(`trajectory`)),k.chat.addEventListener(`scroll`,()=>{if(R!==`trajectory`)return;let e=k.chat;W=e.scrollHeight-e.scrollTop-e.clientHeight<80}),window.addEventListener(`hashchange`,()=>{let e=(window.location.hash.match(/^#\/c\/([0-9a-zA-Z_-]+)$/)??[])[1]??``;e&&e!==P&&yt(e,{silent:!0})}),At();

diff --git a/web/src/main.ts b/web/src/main.ts
@@ -117,7 +117,6 @@ const main = {
   cancel: el<HTMLButtonElement>("cancel"),
   statusLine: el<HTMLElement>("status"),
   model: el<HTMLSelectElement>("model"),
-  maxSteps: el<HTMLInputElement>("maxSteps"),
   optFiles: el<HTMLInputElement>("optFiles"),
   optPlan: el<HTMLInputElement>("optPlan"),
   optSkills: el<HTMLInputElement>("optSkills"),
@@ -1068,14 +1067,13 @@ async function submit(): Promise<void> {
   try {
     let runId: string;
     if (canFollow && lastRun) {
-      const resp = await api.followup(lastRun.id, task, Number(main.maxSteps.value) || 20);
+      const resp = await api.followup(lastRun.id, task);
       runId = resp.id;
     } else {
       const resp = await api.createRun({
         task,
         workspace: workspace || undefined,
         model: main.model.value || undefined,
-        maxSteps: Number(main.maxSteps.value) || 20,
         includeFiles: main.optFiles.checked,
         plan: main.optPlan.checked,
         skills: main.optSkills.checked,
@@ -1178,7 +1176,7 @@ async function resumeRun(): Promise<void> {
   if (!last) return;
   setStatus("正在从检查点恢复…");
   try {
-    await api.resume(last.id, Math.max(Number(main.maxSteps.value) || 20, 8));
+    await api.resume(last.id);
     const refreshed = await api.run(last.id);
     runs = runs.map((r) => (r.id === last.id ? { ...refreshed, events: r.events } : r));
     attachStream(runs[runs.length - 1]);

diff --git a/web/src/api.ts b/web/src/api.ts
@@ -55,7 +55,6 @@ export interface CreateRunOptions {
   task: string;
   workspace?: string;
   model?: string;
-  maxSteps?: number;
   includeFiles?: boolean;
   plan?: boolean;
   skills?: boolean;
@@ -152,22 +151,19 @@ export const api = {
     };
     if (opts.workspace) body.workspace = opts.workspace;
     if (opts.model) body.model = opts.model;
-    if (opts.maxSteps) body.max_steps = opts.maxSteps;
     return request("/runs", jsonBody(body));
   },
 
-  followup(runId: string, text: string, maxSteps?: number): Promise<{ id: string }> {
-    const body: Record<string, unknown> = { text };
-    if (maxSteps) body.max_steps = maxSteps;
-    return request(`/runs/${encodeURIComponent(runId)}/followup`, jsonBody(body));
+  followup(runId: string, text: string): Promise<{ id: string }> {
+    return request(`/runs/${encodeURIComponent(runId)}/followup`, jsonBody({ text }));
   },
 
   cancel(runId: string): Promise<{ id: string; cancelled?: boolean }> {
     return request(`/runs/${encodeURIComponent(runId)}/cancel`, jsonBody({}));
   },
 
-  resume(runId: string, maxSteps?: number): Promise<{ id: string }> {
-    return request(`/runs/${encodeURIComponent(runId)}/resume`, jsonBody({ max_steps: maxSteps }));
+  resume(runId: string): Promise<{ id: string }> {
+    return request(`/runs/${encodeURIComponent(runId)}/resume`, jsonBody({}));
   },
 
   runTasks(runId: string): Promise<{

diff --git a/src/minicode/service/web/index.html b/src/minicode/service/web/index.html
@@ -5,7 +5,7 @@
     <meta name="viewport" content="width=device-width, initial-scale=1.0" />
     <title>minicode</title>
     <link rel="icon" href="data:," />
-    <script type="module" crossorigin src="./assets/index-wPdqmFT5.js"></script>
+    <script type="module" crossorigin src="./assets/index-Fbmw1rHl.js"></script>
     <link rel="stylesheet" crossorigin href="./assets/index-BFrQVWMk.css">
   </head>
   <body>
@@ -77,7 +77,6 @@
               <option value="deepseek-flash">deepseek-flash</option>
               <option value="deepseek-v4-pro">deepseek-v4-pro</option>
             </select>
-            <label title="最大步数">步数<input id="maxSteps" type="number" min="1" max="50" value="20" /></label>
             <span class="divider"></span>
             <label class="check"><input id="optFiles" type="checkbox" checked /> 文件工具</label>
             <label class="check"><input id="optPlan" type="checkbox" checked /> 计划</label>

diff --git a/web/index.html b/web/index.html
@@ -75,7 +75,6 @@
               <option value="deepseek-flash">deepseek-flash</option>
               <option value="deepseek-v4-pro">deepseek-v4-pro</option>
             </select>
-            <label title="最大步数">步数<input id="maxSteps" type="number" min="1" max="50" value="20" /></label>
             <span class="divider"></span>
             <label class="check"><input id="optFiles" type="checkbox" checked /> 文件工具</label>
             <label class="check"><input id="optPlan" type="checkbox" checked /> 计划</label>

diff --git a/docs/取舍与证据.md b/docs/取舍与证据.md
@@ -1127,3 +1127,14 @@
 
 ---
 
+## D79 前端移除步数输入，固定使用默认 20 步
+
+| | |
+|---|---|
+| 背景 | 前端输入区提供 1–50 的步数输入框，与默认值 20 并存；日常使用不需要在界面上调步数，输入框反而增加配置面与测试分支。 |
+| 做法 | ① 删除 `web/index.html` 的 `#maxSteps` 输入；② `main.ts` 不再读取该元素；③ `api.ts` 的 create/followup/resume 不再向前端调用方暴露 `max_steps`；④ 后端默认值仍为 20、API 上限仍为 50，CLI 与 HTTP API 仍可显式覆盖。 |
+| 影响 | 界面提交的 body 不再包含 `max_steps`，由后端应用默认 20；续跑与 followup 同样使用默认值。前端不再有“步数”可编辑状态，少一处需要同步的配置。 |
+| 验证 | 前端测试 74 项通过；界面链路 77 项通过（新增断言：页面无 `#maxSteps`、提交 body 不含 `max_steps`）；前端构建通过；Python 测试 403 项通过。 |
+
+---
+

diff --git a/README.md b/README.md
@@ -309,7 +309,8 @@ curl.exe -sN http://127.0.0.1:8765/runs/<run_id>/events
 每条 `data` 为 JSON，`assistant_delta` 为流式文本增量。
 
 浏览器访问 `http://127.0.0.1:8765/` 即为界面。文件工具、计划、技能、压缩、任务图和
-记忆默认启用；步数默认 20，最大 50。
+记忆默认启用；前端固定使用默认 20 步，不提供步数修改入口。CLI 与 HTTP API 仍可通过
+`max_steps` 覆盖，服务端上限 50。
 
 ### 访问令牌
 
@@ -409,7 +410,7 @@ tools/             开发辅助脚本（store 清理、并发压测）
 
 ## 评测与记录
 
-决策记录与实验数据见 [docs/取舍与证据.md](docs/取舍与证据.md)，共 78 条。
+决策记录与实验数据见 [docs/取舍与证据.md](docs/取舍与证据.md)，共 79 条。
 MCP 配置示例见 [docs/mcp.example.json](docs/mcp.example.json)。
 README 中的数字均可在决策记录或 `eval/runs/` 中找到出处。
 
